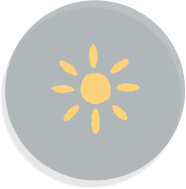
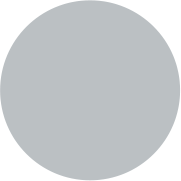
refs #51535 【活动中心】2024年有友节活动（第一期）商店修改和优化主页

diff --git a/src/views/FriendshipMain2024/FriendshipMain2024.vue b/src/views/FriendshipMain2024/FriendshipMain2024.vue
@@ -36,24 +36,28 @@
             <!-- 向日葵 -->
             <div class="sunflower-box">
               <div ref="sunflower" class="sunflower bg-contain"></div>
+              <!-- 阳光 -->
               <div
                 v-if="isUsingSunlightsEnabled"
                 :class="[
-                  'sunflower-sunlight bg-contain',
+                  'sunflower-sunlight flex items-center justify-center bg-contain',
                   {
                     active: (Number(activityData.token_count) || 0) >= 100,
                   },
                 ]"
                 @click="handleUsingSunlight"
               >
+                <div class="sunlight-icon bg-contain"></div>
                 <p class="sunflower-text">-100</p>
               </div>
+              <!-- zzz -->
               <img
                 v-show="!isUsingSunlight"
                 class="img-sleep"
                 src="@/assets/images/friendship-main-2024/sleep.gif"
                 alt="zzz"
               />
+              <!-- heart -->
               <img
                 v-show="isUsingSunlight"
                 class="img-heart"
@@ -403,6 +407,22 @@ function getActivityData(): void {
     })
 }
 
+let startTime: number | null = null
+
+function animateHeart(): void {
+  if (!startTime) {
+    startTime = performance.now()
+  }
+  const elapsedTime = (performance.now() - startTime) / 1000
+  if (elapsedTime < 2) {
+    requestAnimationFrame(animateHeart)
+  } else {
+    isUsingSunlight.value = false
+    sunflower.value?.classList.remove('sunflower-animate')
+    startTime = null
+  }
+}
+
 // 使用阳光
 function handleUsingSunlight(): void {
   if (Number(activityData.value.token_count || 0) < 100) {
@@ -411,10 +431,7 @@ function handleUsingSunlight(): void {
   }
   isUsingSunlight.value = true
   sunflower.value?.classList.add('sunflower-animate')
-  setTimeout(() => {
-    isUsingSunlight.value = false
-    sunflower.value?.classList.remove('sunflower-animate')
-  }, 2000)
+  requestAnimationFrame(animateHeart)
   setPlayerTask({ task: 'activitycenter_main_friendship_2024_m1', value: 100 })
     .then((res) => {
       const { token_count: tokenCount, task_value: taskValue } =
@@ -581,15 +598,16 @@ function handleReward(
     background-image: url('@/assets/images/friendship-main-2024/sunlight-circle.png');
 
     &.active {
-      animation: breathe 2s infinite alternate;
-      width: 186px;
-      height: 189px;
+      animation: scaleAnimationCircle 2s infinite;
+      animation-timing-function: cubic-bezier(0.42, 0, 0.58, 1);
       background-image: url('@/assets/images/friendship-main-2024/sunlight-circle-active.png');
     }
   }
 
   &-text {
-    margin: -15px 0 0 115px;
+    position: absolute;
+    top: -15px;
+    left: 115px;
     width: 130px;
     height: 65px;
     border-radius: 65px;
@@ -600,6 +618,14 @@ function handleReward(
     background: rgba(146, 146, 201, 0.86);
   }
 }
+.sunlight-icon {
+  width: 89px;
+  height: 90px;
+  background-image: url('@/assets/images/friendship-main-2024/sunlight.png');
+  animation: scaleAnimationSunlight 2s infinite;
+  animation-timing-function: cubic-bezier(0.25, 0.45, 0.45, 0.95);
+}
+
 .sunflower-animate {
   animation: scaleMove 0.2s alternate;
 }
@@ -752,14 +778,26 @@ function handleReward(
     transform: scale(1);
   }
 }
-@keyframes breathe {
+
+@keyframes scaleAnimationSunlight {
   0% {
     transform: scale(1);
   }
-  50% {
-    transform: scale(1.05);
+  23% {
+    transform: scale(0.95);
   }
-  100% {
+  58% {
+    transform: scale(1);
+  }
+}
+@keyframes scaleAnimationCircle {
+  0% {
+    transform: scale(1);
+  }
+  25% {
+    transform: scale(0.9);
+  }
+  60% {
     transform: scale(1);
   }
 }

diff --git a/src/views/FriendshipStore2024/FriendshipStore2024.vue b/src/views/FriendshipStore2024/FriendshipStore2024.vue
@@ -278,13 +278,14 @@ const curItem = ref<StoreItem>({ remaining_amount: 5, price: 100, id: 0 })
 // 向日葵成长进度
 const progress = computed(() => {
   const stages =
-    activityDataMain.value.event_data.activitycenter_main_friendship_2024[0]
+    activityDataMain.value.event_data.activitycenter_main_friendship_2024[1]
       .stages
   const value =
-    activityDataMain.value.event_data.activitycenter_main_friendship_2024[0]
+    activityDataMain.value.event_data.activitycenter_main_friendship_2024[1]
       .value
   return stages.filter((item: number) => item <= value).length
 })
+console.log('progress: ', progress.value)
 
 const isVisited = Session.get('isVisitedFriendshipStore2024')
 const bodyTransitionName = ref('')
@@ -386,7 +387,7 @@ function handleConfirm(): void {
     storeCurrencyCount:
       curItem.value.id < 6
         ? (activityDataStore.value.token_info.sunlight_token as number)
-        : activityDataStore.value.currency_info.heart,
+        : -1,
     storeEvent: 'activitycenter_store_friendship_2024',
   })
     .then((res) => {
@@ -394,6 +395,7 @@ function handleConfirm(): void {
       const errorMap = {
         fail: '服务器错误',
         'not enough store currency': '货币不足',
+        'existing unlock': '商品已存在，不可兑换',
         'old data': '当前货币数量或者库存数量参数和实际不同',
         'exceed limit': '剩余可兑换数量不足',
       }

diff --git a/src/types/activity/store.ts b/src/types/activity/store.ts
@@ -4,9 +4,9 @@ export interface StoreItem {
   id: number
 }
 
-interface CurrencyInfo {
-  heart: number
-}
+// interface CurrencyInfo {
+//   heart: number
+// }
 
 interface TokenInfo {
   fireworks_token?: number
@@ -23,7 +23,6 @@ export interface AnniversaryStore2024 {
 }
 
 export interface FriendshipStore2024 {
-  currency_info: CurrencyInfo
   token_info: TokenInfo
   sprite_exchange_store: SpriteExchangeStore
 }

diff --git a/src/stores/friendshipStore2024.ts b/src/stores/friendshipStore2024.ts
@@ -19,7 +19,6 @@ export const useActivityStore = defineStore(
           { remaining_amount: 1, price: 20, id: 7 },
         ],
       },
-      currency_info: { heart: 11 },
     })
     // 更新活动数据
     function updateActivityData(newEventData: FriendshipStore2024): void {
